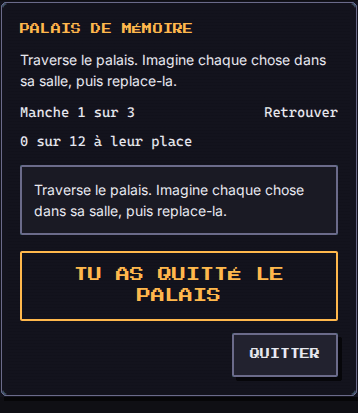
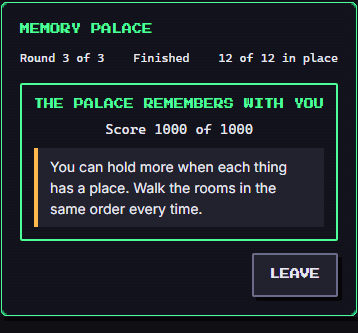
feat(games): Memory Palace docs, notes, screenshots and finished-state label [game-memory-palace]

Changed region(s): [[0.0, 0.0, 1.0, 0.961]]

diff --git a/src/games/memory-palace/Screen.tsx b/src/games/memory-palace/Screen.tsx
@@ -223,13 +223,18 @@ export default function MemoryPalaceScreen(props: GameScreenProps) {
         <span className="mono" data-testid="memory-palace-round">
           {formatText(s.round, { n: Math.min(state.roundIndex + 1, ROUND_COUNT), total: ROUND_COUNT })}
         </span>
-        <span className="mono">{state.phase === 'recall' ? s.phaseRecall : state.phase === 'memorise' ? s.phaseMemorise : s.phaseIntro}</span>
+        <span className="mono">{over ? s.phaseDone : state.phase === 'recall' ? s.phaseRecall : state.phase === 'memorise' ? s.phaseMemorise : s.phaseIntro}</span>
         <span className="mono" data-testid="memory-palace-score">
           {formatText(s.progress, { correct, total })}
         </span>
       </p>
 
-      <div className={styles.live} aria-live="polite" role="status" data-testid="memory-palace-prompt">
+      <div
+        className={cx(styles.live, (outcome || state.phase === 'memorise') && 'srOnly')}
+        aria-live="polite"
+        role="status"
+        data-testid="memory-palace-prompt"
+      >
         {live}
       </div>
 

diff --git a/src/games/memory-palace/strings.ts b/src/games/memory-palace/strings.ts
@@ -17,6 +17,7 @@ export const strings = defineStrings({
     begin: 'Begin the walk',
     round: 'Round {n} of {total}',
     phaseIntro: 'Ready',
+    phaseDone: 'Finished',
     phaseMemorise: 'Memorise',
     phaseRecall: 'Recall',
     progress: '{correct} of {total} in place',
@@ -117,6 +118,7 @@ export const strings = defineStrings({
     begin: 'Commencer la promenade',
     round: 'Manche {n} sur {total}',
     phaseIntro: 'Prêt',
+    phaseDone: 'Terminé',
     phaseMemorise: 'Mémoriser',
     phaseRecall: 'Retrouver',
     progress: '{correct} sur {total} à leur place',

diff --git a/docs/games/memory-palace.md b/docs/games/memory-palace.md
@@ -1,6 +1,6 @@
 # Memory Palace (`memory-palace`)
 
-A short walk through six original rooms (gate, hall, kitchen, library, garden, tower). In the **memorise** phase each thing appears in a room with a vivid prompt. In the **recall** phase the palace is empty and you put every thing back. The skill is the method of loci: attach each thing to a place, then walk the places to recall them. This is practice, not a test of worth. A missed walk sends the troops home; the rooms wait.
+A short walk through six original rooms: gate, hall, kitchen, library, garden and tower. In the **memorise** phase each thing appears in its room with a short, vivid caption and a draining look time. In the **recall** phase the palace is empty again and you put every thing back in its room. It practises working and short-term memory through the method of loci. This is practice, not a test of worth: a walk that goes badly sends the troops home, and the rooms wait.
 
 | Field | Value |
 | --- | --- |
@@ -8,50 +8,66 @@ A short walk through six original rooms (gate, hall, kitchen, library, garden, t
 | Minimum ring | 1 |
 | Roster | 1 to 8 |
 | Length | about 3 minutes |
-| Learning | working and short-term memory (method of loci) |
+| Practises | working and short-term memory (method of loci) |
 
 ## How to play
 
-Three rounds. Base counts are 4, then 6, then 8 things. `run.difficulty` (1 to 5) shifts those counts by up to two, shortens the look time, and adds distractors. Difficulty 1 is 2/4/6 things with a long look; difficulty 5 is 6/8/10 with a short look.
+Three rounds, each opening on a ready card ("the palace is empty again"). Press **Begin the walk**, then the things appear one at a time in walking order, from the gate to the tower, so the route itself is the technique. Each look lasts a few seconds (a draining bar, or plain text such as "6 s left" under reduced motion). **Next** moves on before the time is up, **Pause** stops the clock.
 
-During the look, a draining bar shows the time left (plain text when reduced motion is on). **Next** skips the rest of the wait. **Pause** stops the clock. Then tap a room and a thing (or drag a thing onto a room). Keyboard: Tab to a thing, arrows to a room, Enter to place. Every room and every thing has a text label; colour is never the only signal.
+Then recall: pick a thing and a room, in either order (touch, mouse or keyboard), and it goes there. A wrong room is told in words and a symbol ("lantern, in the hall: not there", a cross and "(missed)"), and the right room is never revealed. Some words in the list were never in the palace: they are distractors, and placing one counts as a miss.
 
-Score 0 to 1000: 850 points times the share of correct placements, plus 150 if you used no letter hints. `result` is `won` at 70 percent correct or more, `lost` otherwise, `fled` on **Forfeit**. **Leave** is a separate button.
+Keyboard: Tab through the things and rooms, Space or Enter to pick, arrow keys, Home and End to walk the rooms. After a placement the focus goes to the next thing. Dragging a thing onto a room also works with a mouse. Every room and thing has a text label; colour is never the only signal, and the live region announces each step.
+
+**Score** 0 to 1000: 850 points times the share of things in the right room, plus 150 more (scaled the same way) when no letter hint was asked for. **Result**: `won` at 70 percent correct or more across the three rounds, `lost` otherwise (the troops come home), `fled` on **Forfeit** (a partial score, 400 times the share). **Leave** is a separate press that calls `onExit`.
+
+The `learned` note is "You can hold more when each thing has a place", plus one tip of the walk (six tips in each language: make the picture odd, keep the same route, use more than sight, say it aloud, give the thing something to do, rest between rooms).
+
+## The technique
+
+The method of loci (the name only): give each thing a distinctive place and walk the places to bring the things back. The captions are original ("Make the picture huge, wedged in the doorway"). Nothing is copied from a textbook or another work. French nouns carry no article, so the French captions talk about "l'image" and never have to agree with the noun.
 
 ## Party
 
-The Study troop (`habit: 'study'`) grants one first-letter hint per round (two letters when their `power` is 40 or more). The Sleep troop extends the look time (`floor(power / 4)` extra ticks of 50 ms each). The Social troop shows how many things sit in each room. A starter party of Move, Outside and Clean still plays; they walk without those perks. A level 12 Study/Sleep/Social party is visibly slower to rush and can ask for a letter.
+The party changes the walk in ways the player can read on the ready card:
 
-Titles (`traits`) are not used. `troopsUsed` lists the Study, Sleep and Social members who came, or the first member when none of those habits are present.
+- **Study** (`habit: 'study'`): one first-letter hint per round. A hint names the room and the first letters of a forgotten thing ("In the kitchen, something starts with L"): the place cues the thing, the method in reverse. With `power` of 40 or more it shows two letters. Hints stay on the page for the round.
+- **Sleep**: each look lasts longer by half the member's `power`, in 50 ms ticks (power 44 is 1.1 s longer). Flavour: a rested mind holds more.
+- **Social**: counts how many things sit in each room and whispers the tip of the round.
+- A level 1 starter party plays unaided; a level 12 party with those three habits sees them all. `traits` are not used. `troopsUsed` lists the Study, Sleep and Social members who came, or the first member when none of those habits is present (a mixed party with a citizen is fine).
 
 ## Buffs
 
-- `time`: each point (a second) adds one 50 ms tick of look time per thing, capped at 40 ticks, so a 20-second lottery still helps without stretching the contract kit past its step budget.
-- `hint`: extra first-letter reveals each round.
-- `revive`: one retry of the weakest round after the three walks.
+- `hint`: extra letter hints every round.
+- `time`: every look lasts 0.2 s longer per second of buff (4 ticks), capped at 6 s.
+- `revive`: when all three rounds have been walked, one retry of the weakest round, a fresh look at the same things.
 - `luck`: removes one distractor from every round.
-- `attack` and `defense` are ignored: there is no incoming hit and no damage to deal.
+- `attack` and `defense` are ignored: nothing attacks and nothing is attacked.
 
-## Determinism
+## Tuning numbers
 
-Setup uses `mulberry32(fnv1a('memory-palace:<seed>'))`. The engine never reads a clock; look time is `{ type: 'tick' }` at `FIXED_DT_MS` (50 ms). The same seed, party, run and locale replay the same rooms and the same outcome. Locale changes the words, the prompts and the log, not the ids.
+| Difficulty | 1 | 2 | 3 | 4 | 5 |
+| --- | --- | --- | --- | --- | --- |
+| Things per round | 2, 4, 6 | 3, 5, 7 | 4, 6, 8 | 5, 7, 9 | 6, 8, 10 |
+| Distractors per round | 1 | 2 | 3 | 4 | 5 |
+| Look per thing | 8 s | 6.5 s | 5 s | 4 s | 3 s |
+| Bot forgets (percent) | 0 | 37 | 44 | 52 | 59 |
 
-## Bot
+The look never drops under 2 s. Words: 150 original concrete nouns per language, no duplicates, none a room name, with confusable groups (lookalikes, near meanings, French collisions) kept out of the same round. Nothing repeats inside one game.
 
-`botPlay` ticks through the look, spends a letter hint when it has one, then places each real thing. On difficulty 1 it never misses. On difficulty 5 it uses a seeded error rate (42 percent) and misses some rooms. On difficulty 2 it wins a comfortable share of walks.
+## Determinism and the bot
 
-## Technique
+Setup uses `mulberry32(fnv1a('memory-palace:<seed>'))`. The engine never reads a clock: look time is `{ type: 'tick' }` at `FIXED_DT_MS` (50 ms), `advance` skips ahead. The same seed, party, run and locale replay the same palace and outcome; the locale changes the words, captions and log, not the rooms.
 
-The method of loci (the name only): give each thing a place that is hard to mix up, then walk the places. The prompts are original; nothing is copied from a textbook or another work.
+`botPlay` walks (ticks), then places the things in order. It forgets a share of them by difficulty, a little less with a longer look; with a letter hint left it spends it on a thing it forgot (and still misses 35 percent of hinted things); a revive gives it a second, better walk of the weakest round. The error roll is mixed with a hash of the seed, round and word so different palaces forget different things. Over 100 seeds on a plain run with the full party: difficulty 1 wins 100, difficulty 2 wins 68, difficulty 3 wins 53, difficulty 4 wins 15, difficulty 5 wins 6. The starter party (no hints, no rest) wins 100, 31, 18, 2 and 2.
 
 ## Screenshots
 
 Written by `e2e/games/memory-palace.spec.ts` (`shootGame`, mobile project).
 
-| Start | Recall | End |
+| Look | Recall | End |
 | --- | --- | --- |
-| ![Memory Palace, first look](img/memory-palace-start.png) | ![Memory Palace, recall](img/memory-palace-recall.png) | ![Memory Palace after leaving](img/memory-palace-end.png) |
+| ![Memory Palace, the look](img/memory-palace-look.png) | ![Memory Palace, recall](img/memory-palace-recall.png) | ![Memory Palace, the end](img/memory-palace-end.png) |
 
 ## Known limits
 
-Drag-and-drop is an extra on top of tap and keyboard. The time buff is scaled to the short per-item window (one tick per second, cap 40) rather than adding a full wall-clock second to every card, so the contract kit stays inside 20,000 steps.
+Drag and drop uses the browser's HTML drag events, so it works with a mouse but not on touch screens (tap two buttons instead). The time buff is scaled to the short per-thing look (0.2 s per second of buff, capped), not added in full to every card. Letter hints reveal the room as well as the letter, a deliberate choice: the words are on the screen in recall, so a bare letter would add nothing. The words exist in English and French only.

diff --git a/docs/review/notes/game-memory-palace.md b/docs/review/notes/game-memory-palace.md
@@ -1,48 +1,34 @@
 # Notes: Memory Palace (`game-memory-palace`)
 
-Decisions taken with nobody available to ask. Brief: `docs/briefs/games/memory-palace.md`.
+Brief: `docs/briefs/games/memory-palace.md`. PR: #36 on `integration/arena`. Nobody was available to ask, so every decision is written here.
 
-## Time buff scaling
+## The Cursor build: adopted, then reworked
 
-CONTRACT.md says a `time` buff of `amount` seconds is `amount * 1000 / FIXED_DT_MS` ticks on a global clock. Memory Palace times *each card*, so adding 20 wall-clock seconds to every card would push buffed bot walks near the 20,000-step cap. Decision: each point of `time` adds **one 50 ms tick** of look time per card, capped at 40 ticks. Sleep still adds `floor(power / 4)` ticks. The difference is visible (starter vs full, plain vs buffed) and the kit stays fast. Documented under `## Buffs` in `docs/games/memory-palace.md`.
+A Cursor agent had pushed an unreviewed build to `origin/feat/game-memory-palace` (never tested, no PR). It was adopted with `git checkout origin/feat/game-memory-palace -- <files>` (the branch was not merged) after `npx vitest run src/games` passed with it, including the contract kit, lint and budget tests. It matched the brief's rules, so it was kept as the baseline and then reviewed. Kept: the engine skeleton, the 150-word lists with confusable groups, the seeded picker, the scoring shape, the revive logic and the contract test wiring. Changed:
 
-## Hint shape
+- Look times were 1.2 s down to 0.4 s per thing (24 to 8 ticks of 50 ms): unplayable for a human. Now 8 s down to 3 s, never under 2 s.
+- Added a ready card before every round, so the first look does not start under the player's thumb.
+- Things now appear in walking order (gate to tower), so the route is the technique; the recall order stays free.
+- French prompts used a bare noun after "Imagine" ("Imagine gland dans le hall"). Prompts are now a label plus a caption about "l'image" that no gender agrees with.
+- Technique tips (six, en and fr): Social shows the tip of the round, and the `learned` note carries one (Cursor put an item prompt there).
+- The bot now spends hints only on things it forgot, a hint rescues most but not all of them, a longer look lowers its error, a revive gives a better second walk. Before, the full party and the starter party won identically (the hints did nothing for the bot).
+- Score: the 150-point no-hint bonus is scaled by the share correct, so an empty recall scores 0 (it scored 150).
+- Screen rewritten: a scene card for the thing being looked at, a route map with the current room marked, richer SVG scenes, items and rooms picked in either order, all hints of the round kept on screen, placed things listed in their room with a symbol and a hidden "(right/missed)" label, arrows, Home and End walking the rooms, focus kept on the next action, no duplicate live text.
+- The pointer-based drag (it also fired on plain taps) was dropped; HTML drag and drop stays as an extra.
+- Tests: 67 unit tests (engine, technique, Screen) plus the contract kit; the e2e spec plays a whole game through the real UI by mirroring the engine, replays through Bot play (`replaySameSeedWithBot`, which avoids the Lab quirk Cursor worked around), and checks keyboard, French, difficulty, perks, responsive sizes and reduced motion.
 
-The brief says Study “reveals the first letter of a forgotten item”. Item names are on the recall grid (you are remembering *where*, not the word). A bare letter would not help. Decision: a hint names the **room and the prefix** (“In the kitchen, something starts with L”). That is the method of loci in reverse: the place cues the thing. High Study power (40+) reveals two letters.
+The Cursor branches `origin/feat/game-memory-palace` and `origin/cursor/game-memory-palace-d0f9` should be closed by the maintainer after this PR merges.
 
-## Revive
+## Decisions
 
-After every round has been filled once, one `revive` restarts the weakest round (lowest accuracy, later round on a tie) from its look phase, same items. Automatic, so the bot uses it. Only once (`reviveUsed`).
-
-## Cut line
-
-Nothing cut. Round 3, generated prompts (eight original templates), and drag-and-drop on top of tap and keyboard are all in.
-
-## Word list
-
-150 original concrete nouns, en and fr, no room names, no trademarks. Confusable groups cover lookalikes, close meaning, and a few French collisions (`dé` / `dé à coudre`, `pomme` kept off pinecone by using `cône`). The picker refuses a pair from the same group in one round (items plus distractors). Unused words can repeat across rounds of different games; they do not repeat inside one game.
-
-## Bot error stream
-
-The kit's `botRng` does not depend on the game seed. A pure `rng() < rate` check therefore rolled the same sequence on every seed, and difficulty 2 looked unbeatable. Decision: mix the roll with the word id (`(floor(rng()*100) + wordId) % 100`) so different palaces miss different cards. Difficulty 1 still has rate 0 (perfect). Documented in the engine.
-
-## Lab: Bot play after Replay
-
-`LabGame.botPlay` always does `setPrevious(result)` before recording the bot outcome. "Replay same seed" nulls `result`, so a following Bot play wipes `previous` and the Lab never shows "Matches the previous run." I do not own `src/games/lab/`. Decision: the replay e2e test walks the real UI (one place + Forfeit). Full games still use Bot play. Request: `botPlay` should keep `previous` when `result` is already null.
+- **Hint shape.** The brief says a hint reveals the first letter of a forgotten item. In recall the item words are already on screen, so a bare letter helps nobody. A hint names the room and the first letters ("In the kitchen, something starts with L"): the place cues the thing, the method in reverse. Study power 40 or more reveals two letters.
+- **Time buff.** CONTRACT.md says a `time` buff adds `amount` seconds on a global clock. A look is timed per thing, so 20 s on each of 24 looks would be absurd. Each buff second adds 4 ticks (0.2 s) to every look, capped at 120 ticks (6 s).
+- **Sleep.** Adds `floor(power / 2)` ticks to each look.
+- **Bot targets.** The brief wants 40 to 70 percent wins on normal difficulty. With the full party on the plain run (difficulty 2) over 100 seeds the bot wins 68; difficulty 3 wins 53; difficulty 1 wins 100; difficulty 5 wins 6. The starter party wins 31 at difficulty 2.
+- **Distractors.** The items grid holds the things plus distractors; placing a distractor wastes a slot and is a miss, told in words ("never in the palace").
+- **A wrong placement does not reveal the right room**, so a player cannot learn the answer by trial and error; a wrong item is spent.
+- **Cut line.** Nothing was cut: round 3, generated captions and drag all ship. Drag works with a mouse only (HTML drag events); touch uses taps.
 
 ## Files not owned
 
-`src/games/lab/LabGame.tsx`: see "Lab: Bot play after Replay". Worked around in `e2e/games/memory-palace.spec.ts`.
-
-## PR
-
-Branch `feat/game-memory-palace` (pushed), base `integration/arena`.
-
-This subagent does not have the `ManagePullRequest` tool, and `gh` / the GitHub API return 403 (`Resource not accessible by integration`) on `pulls#create`. The parent agent should open the draft PR with:
-
-- title: `feat(games): Memory Palace [game-memory-palace]`
-- base: `integration/arena`
-- head: `feat/game-memory-palace`
-- draft first, then mark ready (acceptance list below is green)
-
-Do not merge from this agent.
+None needed. A scratch file `stats.txt` was committed by mistake earlier on this branch and removed again in the same PR, so the final diff does not contain it.
